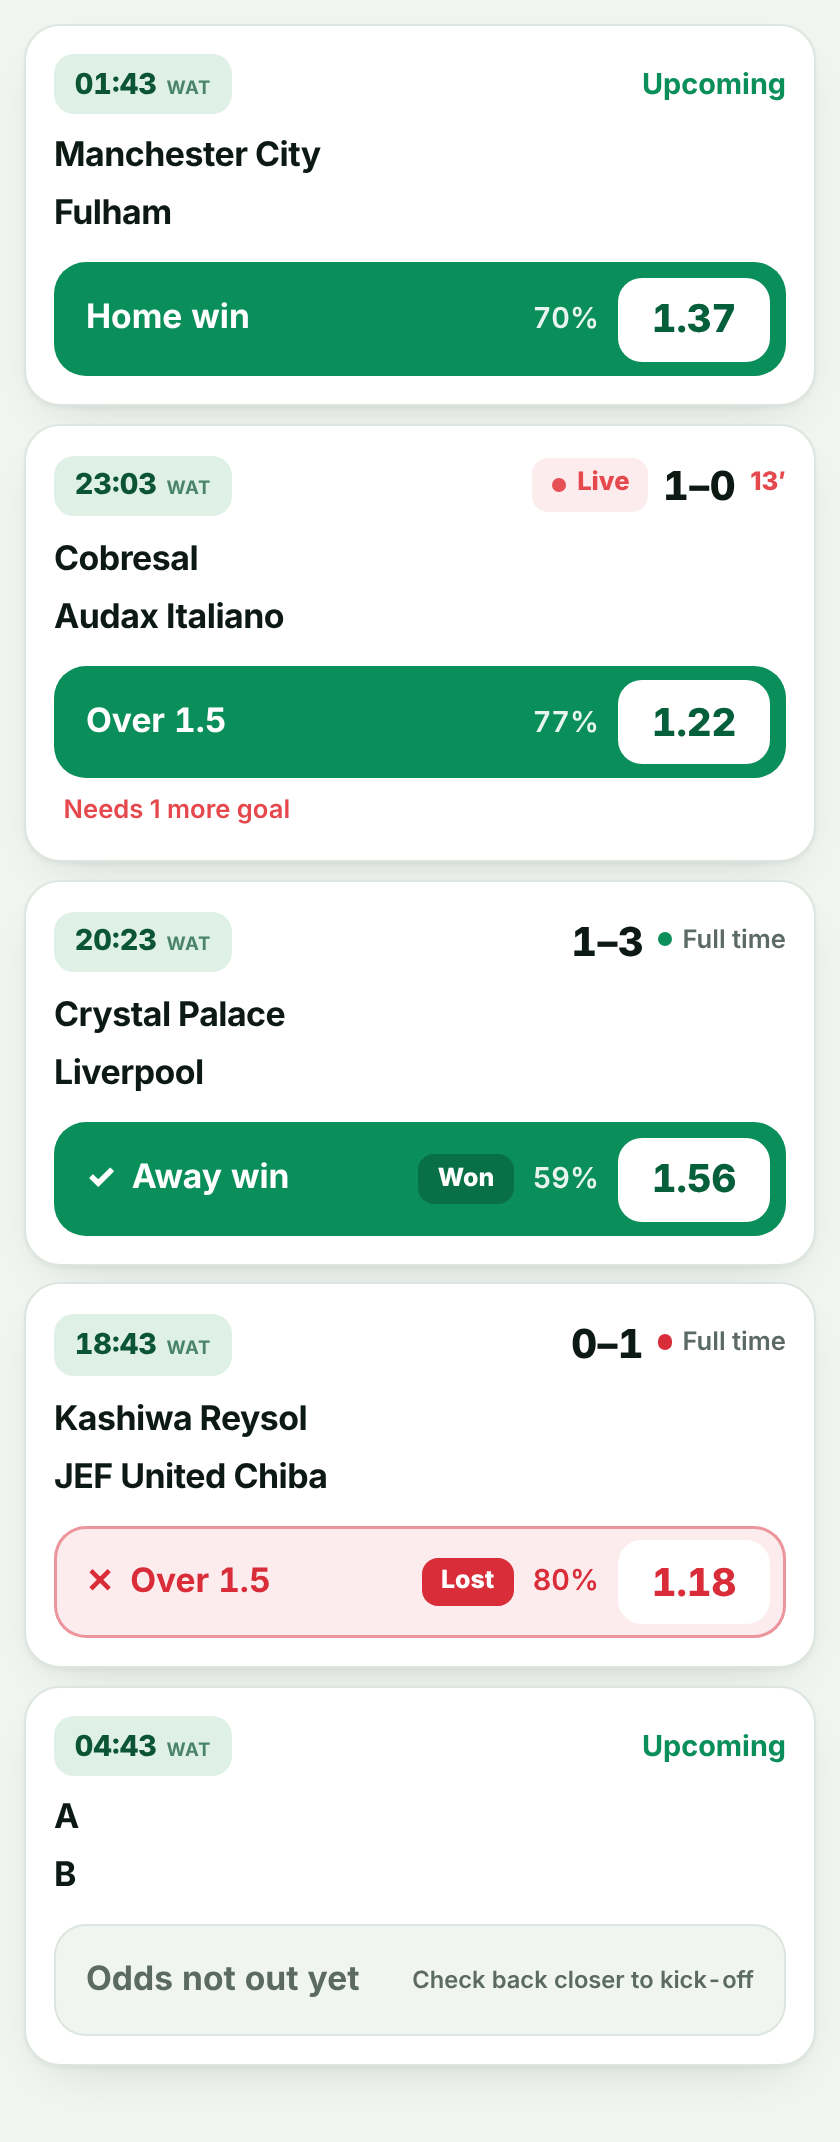
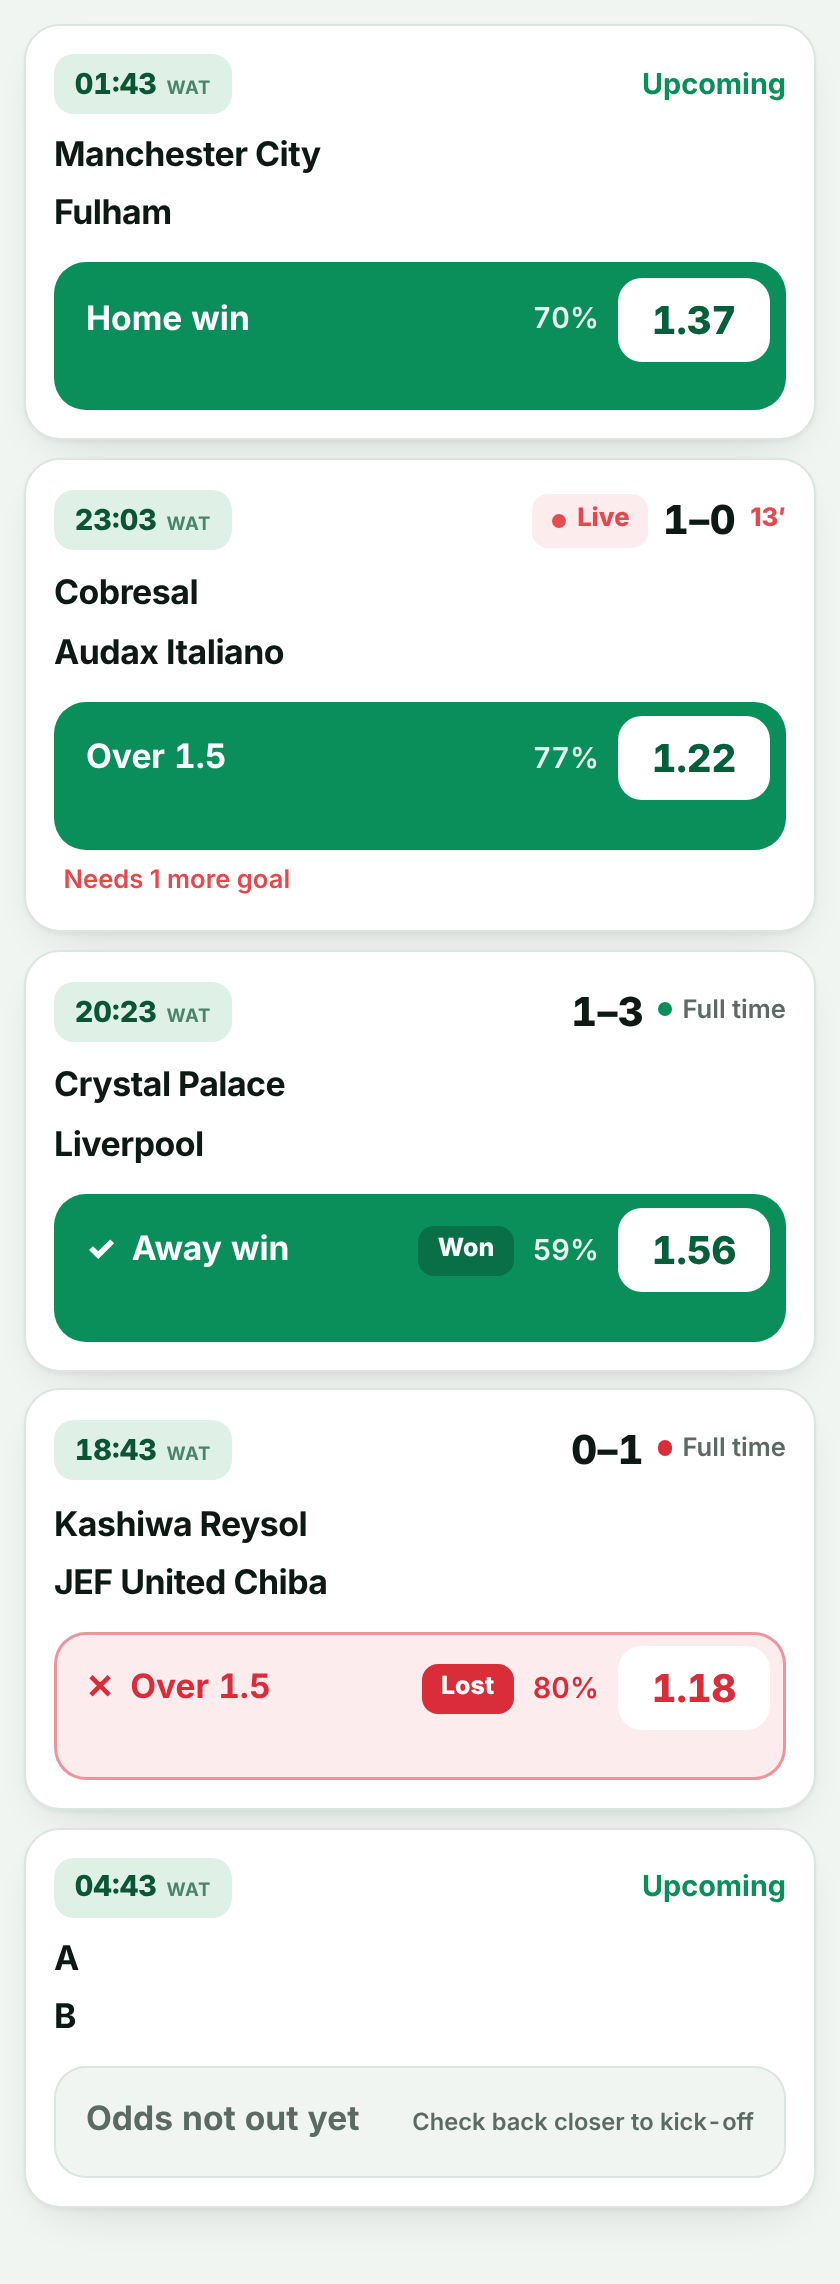
Add files via upload

diff --git a/zp.css b/zp.css
@@ -846,3 +846,9 @@ i.bd{font-size:.6rem}
 .row .nt{margin:0;padding:0 .3rem;font-size:.8rem;font-weight:600;color:var(--mut)}
 .row.live .nt{color:var(--live)}
 .row .lgt{display:block;margin-top:.1rem;font-size:.72rem;font-weight:600;color:var(--mut)}
+
+/* ===== Card tweaks: hide market label; taller pick bar with a clear strip at the bottom for the star ===== */
+.row .mkt{display:none}
+.row .ods{position:relative}
+.row .oc{min-height:74px;padding-bottom:1.5rem}
+.row .oc.nopick{min-height:56px;padding-bottom:.45rem}
